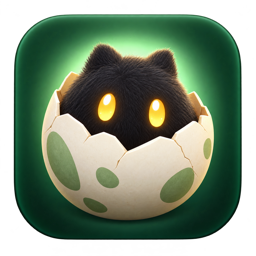
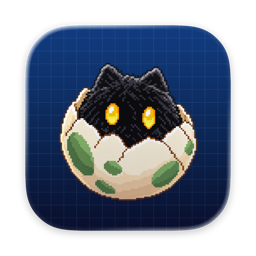
feat: align site and status panel with DW1 theme

diff --git a/src/styles/global.css b/src/styles/global.css
@@ -1,16 +1,13 @@
 :root {
-  --ink: #24332d; --cream: #f8edd3; --amber: #f6b85f; --brown: #c4814d;
-  --mint: #8cd9b0; --green: #4c9c79; --pink: #f190a5; --blue: #91bef5; --navy: #527fbc;
-  --bg: #f8edd3; --fg: #24332d; --card: #fffaf0; --muted: #5d6b63; --line: #24332d;
-  --accent: #286346; --accent-fg: #ffffff;
-  --px: 4px;
-}
-@media (prefers-color-scheme: dark) {
-  :root { --bg: #17211d; --fg: #f8edd3; --card: #22302a; --muted: #a9b8ad; --line: #f8edd3; --accent: #8cd9b0; --accent-fg: #17211d; }
+  --ink: #06132e; --cream: #f2f7ff; --amber: #ffcf4d; --brown: #4aa8f4;
+  --mint: #8cdeff; --green: #8cdeff; --pink: #ffb3ba; --blue: #4aa8f4; --navy: #8cdeff;
+  --bg: #06132e; --fg: #f2f7ff; --card: #0c285f; --muted: #b4cdea; --line: #4aa8f4;
+  --accent: #8cdeff; --accent-fg: #06132e;
+  --px: 1px;
 }
 * { box-sizing: border-box; }
 html { scroll-behavior: smooth; }
-body { margin: 0; background: var(--bg); color: var(--fg); font: 17px/1.65 ui-rounded, "SF Pro Rounded", system-ui, -apple-system, sans-serif; }
+body { margin: 0; background-color: var(--bg); background-image: linear-gradient(#4aa8f410 1px, transparent 1px), linear-gradient(90deg, #4aa8f410 1px, transparent 1px); background-size: 32px 32px; color: var(--fg); font: 17px/1.65 system-ui, -apple-system, sans-serif; }
 img { max-width: 100%; height: auto; display: block; }
 a { color: var(--accent); }
 h1, h2, h3 { font-family: ui-monospace, "SF Mono", Menlo, monospace; line-height: 1.2; letter-spacing: -0.02em; }
@@ -25,15 +22,15 @@ header.site .wrap { display: flex; align-items: center; justify-content: space-b
 nav { display: flex; gap: 4px; flex-wrap: wrap; }
 nav a { color: var(--fg); text-decoration: none; padding: 8px 12px; border-radius: 6px; font-weight: 600; }
 nav a:hover, nav a[aria-current="page"] { background: var(--amber); color: var(--ink); }
-.btn { display: inline-block; padding: 12px 22px; font: 700 1rem ui-monospace, Menlo, monospace; text-decoration: none; background: var(--accent); color: var(--accent-fg); border: var(--px) solid var(--line); box-shadow: var(--px) var(--px) 0 var(--line); transition: transform .08s, box-shadow .08s; }
+.btn { display: inline-block; padding: 12px 22px; font: 700 1rem ui-monospace, Menlo, monospace; text-decoration: none; background: var(--amber); color: var(--ink); border: var(--px) solid var(--line); box-shadow: var(--px) var(--px) 0 var(--line); transition: transform .08s, box-shadow .08s; }
 .btn:hover { transform: translate(2px, 2px); box-shadow: 2px 2px 0 var(--line); }
 :focus-visible { outline: 3px solid var(--navy); outline-offset: 4px; }
 .skip-link { position: absolute; top: -100px; left: 16px; z-index: 20; padding: 8px 16px; background: var(--card); color: var(--fg); }
 .skip-link:focus { top: 8px; }
 .btn.alt { background: var(--amber); color: var(--ink); }
 .row { display: flex; gap: 14px; flex-wrap: wrap; }
-.hero { position: relative; color: #fff; border-bottom: var(--px) solid var(--line); background: #24332d url(/img/village.jpg) center/cover; }
-.hero::before { content: ""; position: absolute; inset: 0; background: linear-gradient(90deg, rgba(20,30,26,.82), rgba(20,30,26,.35)); }
+.hero { position: relative; color: #fff; border-bottom: var(--px) solid var(--line); background: #06132e url(/img/village.jpg) center/cover; }
+.hero::before { content: ""; position: absolute; inset: 0; background: linear-gradient(90deg, rgba(6,19,46,.94), rgba(6,19,46,.56)); }
 .hero .wrap { position: relative; padding-top: 88px; padding-bottom: 88px; }
 .hero p { max-width: 560px; font-size: 1.15rem; }
 .hero .hero-note { font-size: .95rem; }
